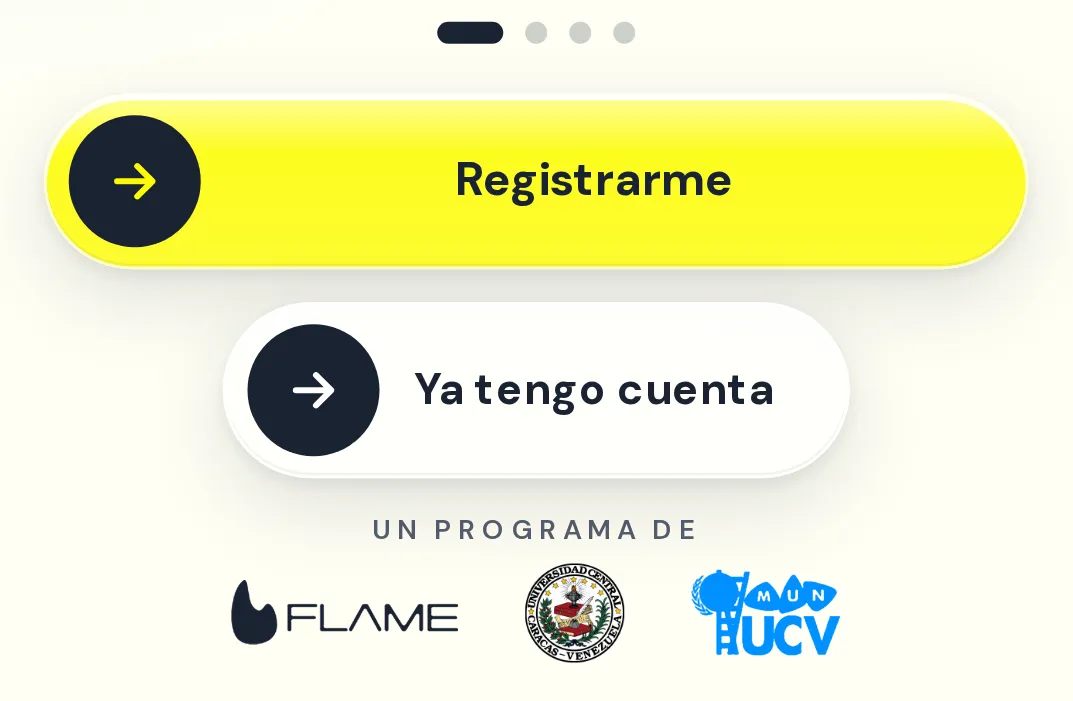
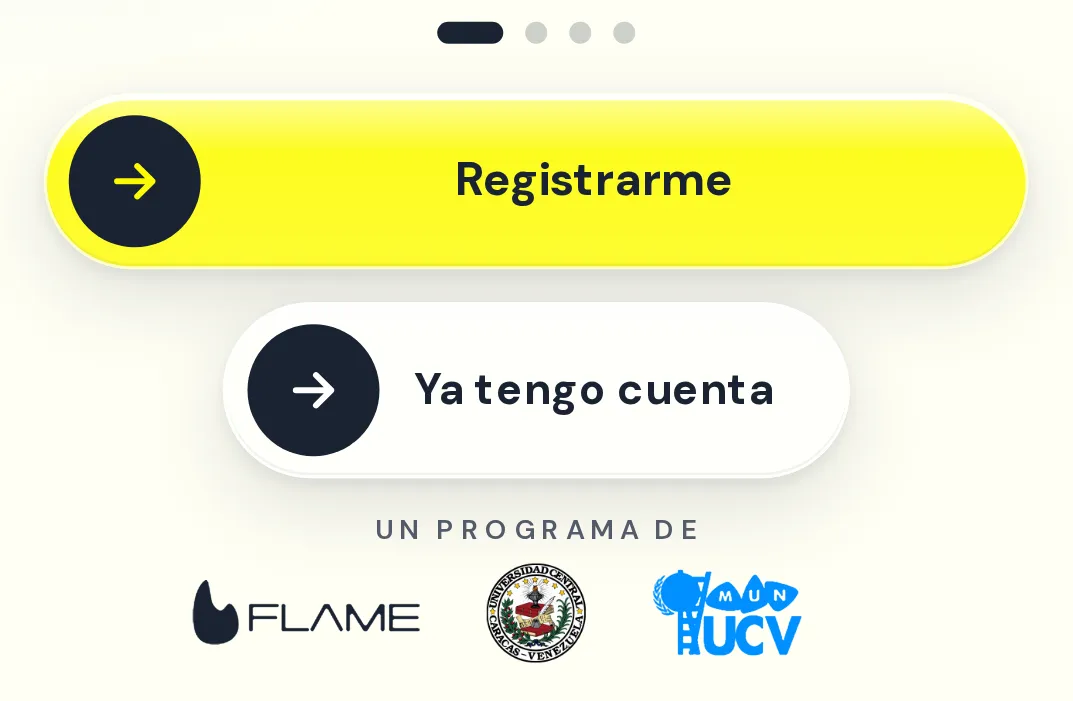
Capturas del pie centrado y nota en la constitution
Claude-Session: https://claude.ai/code/session_01MjPohwTchT6wJJF3ogpPYg

Changed region(s): [[0.1538, 0.719, 0.7996, 0.9586]]

diff --git a/docs/constitution-app-latidos.md b/docs/constitution-app-latidos.md
@@ -197,7 +197,7 @@ Referencia aprobada por Isra (`referencia-v5`, 390 x 844). Ruta `/`, solo modo c
 - **Excepcion de ilustracion**: el arte de las laminas va edge-to-edge, hasta el borde fisico, por debajo de la barra de estado cuando iOS lo permite. Es arte (imagenes), asi que sigue la excepcion de color de las ilustraciones; los campos de color, la mascara y el velo siguen siendo paleta + alfa.
 - **iPhone instalado (plan B)**: con `apple-mobile-web-app-status-bar-style: default` (no se cambia; `black-translucent` esta descartado) iOS pinta la barra de estado opaca aparte y la pagina empieza debajo, con zona segura 0: el contenido no puede pasar por debajo. Antes el campo de color empezaba justo en ese borde y se veia una linea dura bajo la banda crema. Ahora el campo y las ilustraciones nacen transparentes y llegan a opacos a los 56px (`mask-image`), asi el borde se funde con el crema de la barra. Con zona segura > 0 (barra translucida, o Chromium emulado) la misma regla deja el arte bajo la hora.
 
-**Pie (v2.10.1):** "Un programa de" a 10px (`#565E6D`) sobre una fila con los logos de los aliados, en orden fijo: The Flame Creative Lab (navy), el sello de la UCV (a color) y MUN UCV (azul `#0090FF`), centrados como grupo y alineados al centro vertical. Alturas de partida: Flame 24px, UCV 36px, MUN 32px; el ancho sale de la proporcion de cada archivo. 24px entre logos (16px por debajo de 360 de ancho) y como mucho el 85% del ancho: si no cabe, se escala el grupo entero. Con alto < 700px se oculta el rotulo y el grupo baja al 90% (para que puntos y botones no suban mas de 12px). Al menos 12px entre "Ya tengo cuenta" y el pie, que va a `max(14px, zona segura de abajo + 6px)` del borde; a 390 x 844 los puntos y los botones suben 11px respecto de la v2.10.0. Archivos en `public/marca/pie/` (`LOGOS_PIE` en `src/lib/assets.ts`), con carga diferida para no competir con el arte.
+**Pie (v2.10.1):** "Un programa de" a 10px (`#565E6D`, con el letter-spacing final compensado para que quede en el eje) sobre una fila con los logos de los aliados, en orden fijo: The Flame Creative Lab (navy), el sello de la UCV (a color) y MUN UCV (azul `#0090FF`), alineados al centro vertical, en un grid de tres columnas (`1fr auto 1fr`): el sello queda en el centro exacto de la pantalla, en el eje de los puntos y los botones, y a la misma distancia de Flame y de MUN aunque midan distinto. Alturas de partida: Flame 24px, UCV 36px, MUN 32px; el ancho sale de la proporcion de cada archivo. 24px entre logos (16px a 320 de ancho o menos) y como mucho el 85% del ancho: si no cabe, se escala el grupo entero. Con alto < 700px se oculta el rotulo y el grupo baja al 90% (para que puntos y botones no suban mas de 12px). Al menos 12px entre "Ya tengo cuenta" y el pie, que va a `max(14px, zona segura de abajo + 6px)` del borde; a 390 x 844 los puntos y los botones suben 11px respecto de la v2.10.0. Archivos en `public/marca/pie/` (`LOGOS_PIE` en `src/lib/assets.ts`), con carga diferida para no competir con el arte.
 - **Regla de los logos de terceros**: se escalan proporcionalmente y nada mas: nunca se deforman, recortan, recolorean ni redibujan en la app. Son imagenes, asi que quedan fuera de la regla de paleta (como las ilustraciones).
 - **Pendiente de aprobacion**: el sello de la UCV es un redibujo hecho con IA a partir del sello oficial, NO el archivo oficial; hay que pedir a la UCV (o a Kevin) el vector oficial o la aprobacion de este. Flame y MUN UCV son ampliaciones 8x de fuentes pequeñas: se reemplazan con el mismo nombre cuando lleguen los vectores.
 
